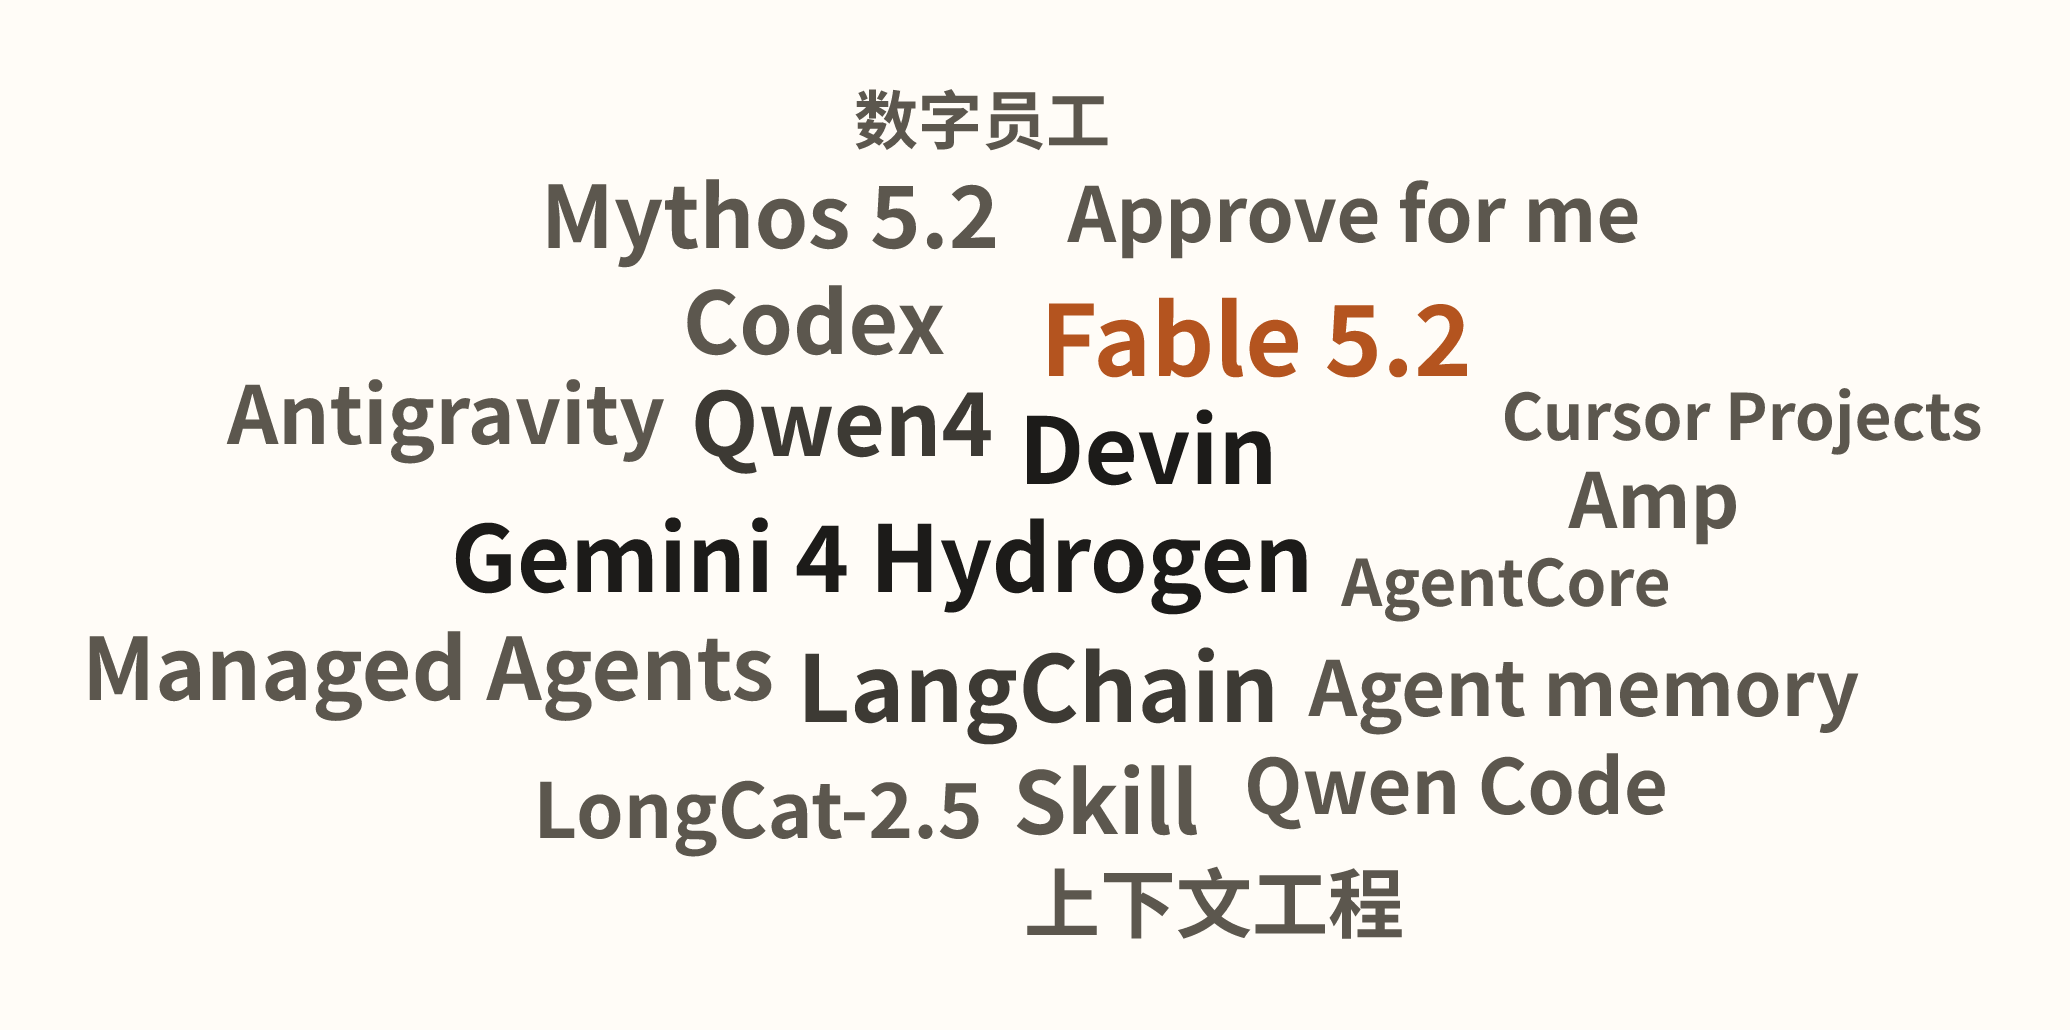
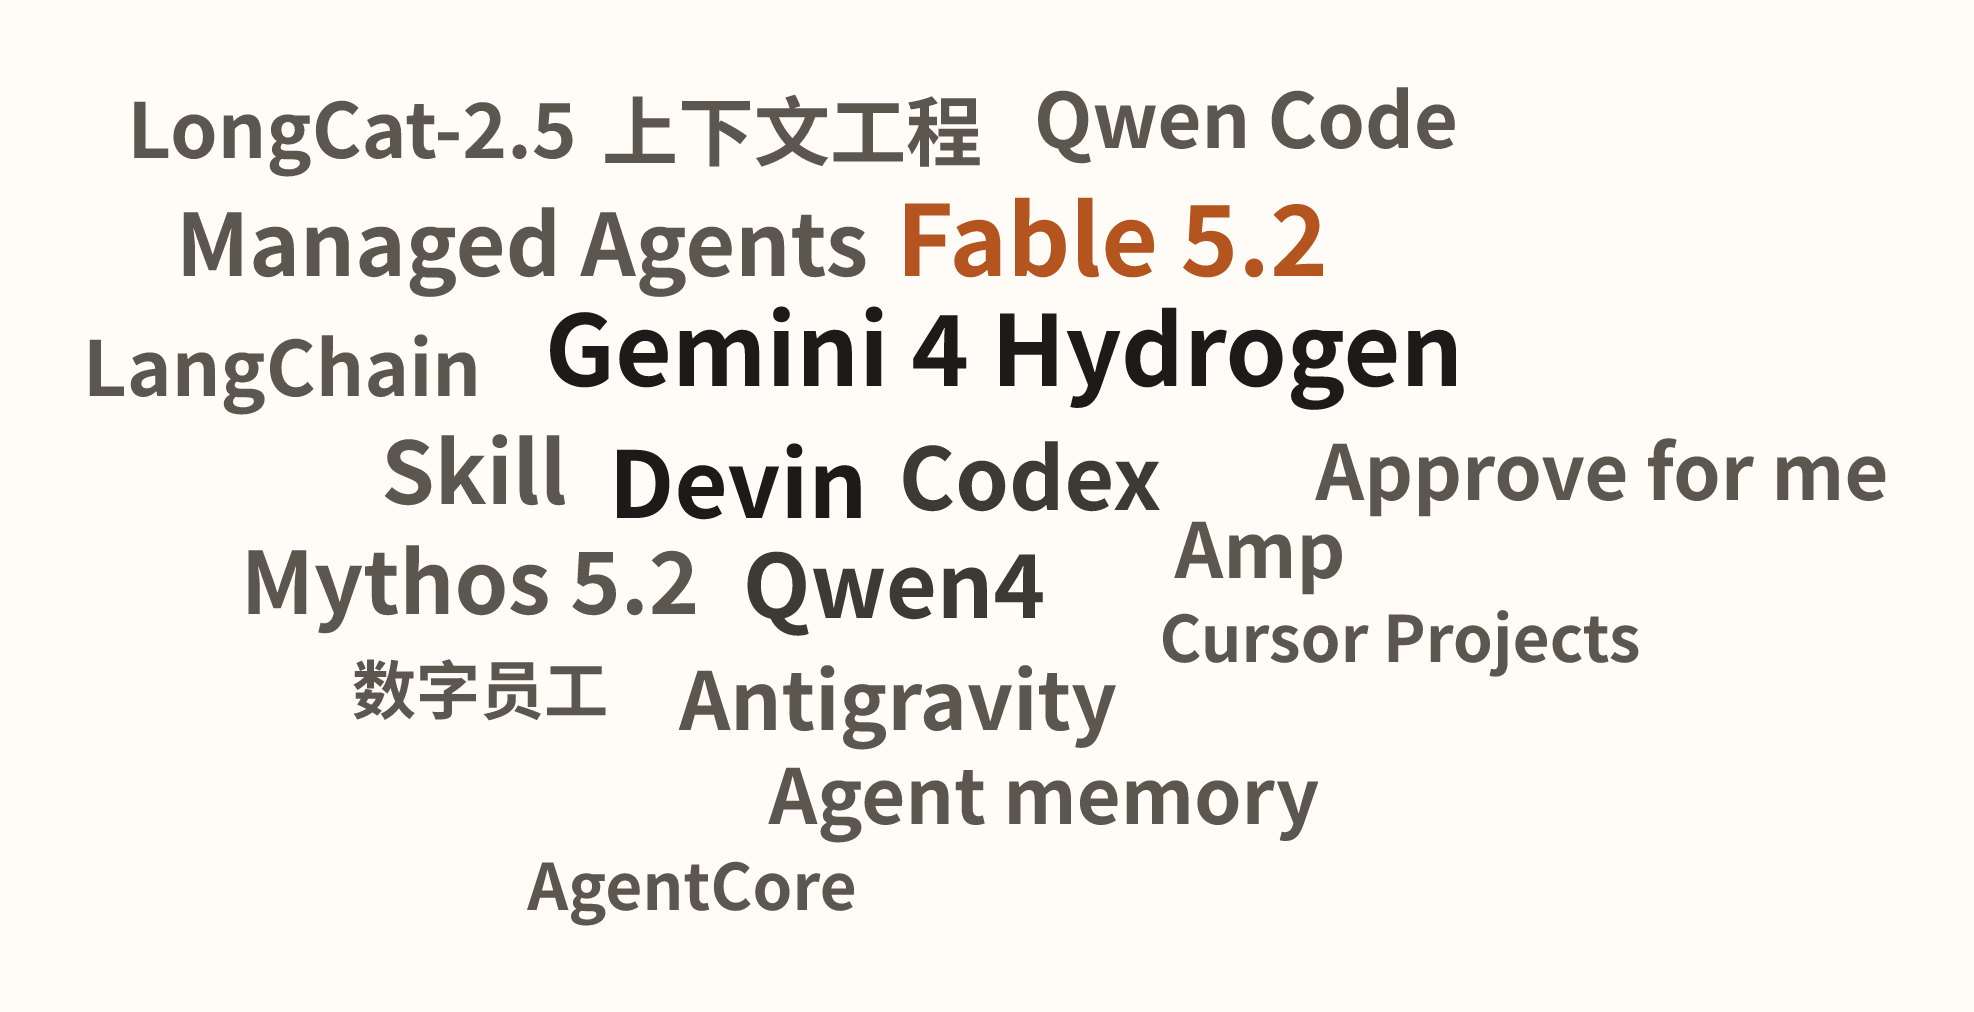
docs: 按更新后的精选规则从头重跑 2026-11-13 期
重新拉订阅并重跑 Arena / Trending，按「判断依据是内容，不是 URL 路径」独立成文。
本期 Arena 取到 2026-11-11 榜，Hydrogen (High) 新进入 Top-15。

Changed region(s): [[0.0309, 0.0919, 0.958, 0.919], [0.2472, 0.8577, 0.4326, 0.919]]

diff --git a/ai-news/2026-11-13-ai-news.notes.md b/ai-news/2026-11-13-ai-news.notes.md
@@ -2,51 +2,43 @@
 
 这份文件与 `2026-11-13-ai-news.md` 同目录。站点 /ai-news/ 不展示、不链接。
 
+本期是在 skill 补上「判断依据是内容，不是 URL 路径。」之后，按同一窗口（2026-11-06～2026-11-12，生成日 2026-11-13，Asia/Shanghai）从头重跑：重新拉订阅、重新跑 Arena / Artificial Analysis / Trending，并按更新后的精选原则独立成文。章节顺序与仓库 `skills/managed/weekly-ai-blogs-digest/SKILL.md` 一致（〇薅羊毛 → 本周关键词 → 模型进展 → 项目开源 → 国内进展 → 国际进展）。
+
 ## 订阅与抓取
 
-- 覆盖窗口 2026-11-06～2026-11-12，生成日 2026-11-13（Asia/Shanghai）。章节顺序与仓库 `skills/managed/weekly-ai-blogs-digest/SKILL.md` 一致（〇薅羊毛 → 本周关键词 → 模型进展 → 项目开源 → 国内进展 → 国际进展），与例程提示一致。
-- `fetch_feeds.py`：46 个源、0 个请求错误、窗口内 218 条（thin 107）。精简 JSON 与全文 JSON、榜单快照写入 [VirusPC/ai-news-data](https://github.com/VirusPC/ai-news-data) 的 `issues/2026-11-13/`。
-- 仓库 skill 当前还没有 `--out-full`（对应任务仍在 backlog）。本期全文版由本地补丁脚本在同一次抓取逻辑下另存，不改正文仓里的 skill。
+- `fetch_feeds.py --since 2026-11-06 --until 2026-11-12`：46 个源、0 个请求错误、窗口内 198 条（thin 96）。
+- skill 本身不要求把精简 / 全文快照写入 [VirusPC/ai-news-data](https://github.com/VirusPC/ai-news-data)，本期未改该仓。
 
 ## Arena
 
-窗口内有新榜。`fetch_llm_arena.py --until 2026-11-12` 取到 `leaderboard_publish_date=2026-11-09`（prior=2026-11-08，next=无）。上一期正文用的是 2026-10-28 的图；11-06、11-08 也有榜，但均不是本期应展示的「窗口结束日前最近一份」。
+`fetch_llm_arena.py --until 2026-11-12` 取到 `leaderboard_publish_date=2026-11-11`（prior=2026-11-09，next=无）。上一期正文用的是 2026-10-28 的图，与本期不是同一份榜，图注不写「较上周无新榜」。
 
-相对上一份可核验快照（2026-11-08）的 Top-15：**无新进入、无落出**，只是名次微调（例如 Claude Opus 4.6 (High) 与 Claude Fable 5.1 (Max) 对调）。因此图中**未标红圈**，渲染时显式传入空 `--highlight`，避免脚本按最低票数启发式误标。本窗口新发布的 Fable 5.2、Mythos 5.2、Gemini 4 Hydrogen、Qwen4-Max 均未进入 11-09 的 Top-15。
+相对上一份可核验快照（2026-11-09）的 Top-15：新进入 **Gemini 4 Hydrogen (High)**（第 15），落出 Claude Opus 5 (High)。渲染时显式传入 `--highlight "Gemini 4 Hydrogen (High)"`。
 
-相对 2026-10-28（上期正文用图）：Muse Spark 1.1 进入、Claude Opus 5 (Max) 落出；这一变化在 11-06 的榜上已经出现，不属于相对 11-08 的新进入，故不在本期图中标 NEW。
-
-正文图注：榜单发布日 2026-11-09。
-正文图：`llm-arena-top15-2026-11-09-marked.png`（SVG 真源同目录）。
+正文图注：榜单发布日 2026-11-11。红圈为新进入 Top-15 的 Gemini 4 Hydrogen (High)。
+正文图：`llm-arena-top15-2026-11-11-marked.png`（SVG 真源同目录）。
 数据来自 Hugging Face `lmarena-ai/leaderboard-dataset`（config `text_style_control`，overall，full parquet）。
 
 本环境无 `AA_API_KEY` / `ARTIFICIAL_ANALYSIS_API_KEY`，正文不写 Artificial Analysis 小节。
 
 ## 薅羊毛
 
-linux.do 福利 RSS 明显截断：当前源 oldest=2026-11-12、newest 含生成日 2026-11-13，`truncated=true`。窗口 11-06～11-11 的社区帖已从当前 RSS 滚出，正文只采用窗口内仍能从该 RSS 核对到的 11-12 条目，并只保留可指向官方页的 AI / Coding 优惠。
+linux.do 福利 RSS 明显截断：当前源 oldest=2026-11-12、newest 含生成日 2026-11-13，`truncated=true`，窗口内仅 2 条（一个中转站关闭注册的讨论、一条寻找低价 Gemini Ultra 渠道的求助），均不是可指向官方页的 AI / Coding 优惠，正文未采用。
 
-入选三条均有官方页：超算互联网 MaaS 特惠、ChatGPT Plus 退役军人一年、Devin for Startups。社区合集帖只作为超算互联网的补充链接。RSS 里大量中转站 / 充值折扣 / 非 AI 日常消费（银行、音乐会员、京东 e 卡等）未写入正文。
-
-未把滚出 RSS 的更早话题（例如监控里见过的其它社区帖）写进正文，以免无法用本期抓取结果核验发布日。
+薅羊毛两条来自窗口内其它博客 / 官方页：ChatGPT Plus 退役军人一年（OpenAI，11-11）、Devin for Startups（Cognition 官方页与同期推文，最高约 6.5 万美元额度）。Teams 方案升级中的免费会话写在国际进展，避免与额度条目重复展开。
 
 ## GitHub Trending
 
 mshibanami/GitHubTrendingRSS 的 daily/all 快照日期为 **2026-11-12**（feed 更新时间 2026-11-12 07:55 UTC），落在窗口最后一天，故正文列出前 5。名次按该 RSS 条目顺序，而不是 `fetch_feeds.py` 去重后的标题排序。Python / TypeScript 分类榜未写入正文。
 
-前 5 为：meta/astryx、ZhuLinsen/daily_stock_analysis、GoogleChrome/modern-web-guidance-src、shadcn/improve、addyosmani/agent-skills。
+前 5 为：meta/astryx、ZhuLinsen/daily_stock_analysis、GoogleChrome/modern-web-guidance-src、shadcn/improve、addyosmani/agent-skills。OpenAI Codex Security 在该榜第 9，作为独立开源条目写入。
 
 ## 其它截断或未写入
 
 - `aws-ml` 源 truncated（当前源 oldest=2026-11-11），窗口前半的 AWS 博文可能已滚出；正文只用窗口内仍能核对的条目，且只精选 Codex on Bedrock / AgentCore / Web Search。
-- 与上期正文同一 URL 的文章不再重复，例如 LangChain 的 [Agents Are Going Async](https://www.langchain.com/blog/agents-are-going-async) 虽被源标为 11-06，但已出现在 2026-11-06 期。本期改写同系列在窗口内的新文（v0.10 浏览器与异步子 Agent、上下文工程两篇）。
+- LangChain 的 [Agents Are Going Async](https://www.langchain.com/blog/agents-are-going-async) 虽被源标为 11-06，但已出现在 2026-11-06 期。本期改写同系列在窗口内的新文（v0.10 浏览器与异步子 Agent、上下文工程两篇）。
 - 支付宝 SEE Conf 系列多为议程与早鸟票，未单独成条。
 - Anthropic IPO 路演与多篇 OpenAI 客户案例、行业活动，按 skill「侧重 Agent 与产品」未展开。
-
-## 按内容重跑精选（2026-11-13 下午）
-
-skill 在「侧重 Agent 与产品」一段末尾补上「判断依据是内容，不是 URL 路径。」后，按同一窗口重跑精选。订阅抓取复用既有快照（46 源、0 个请求错误、窗口内 218 条），未重新拉 RSS；Arena、Trending 与 Artificial Analysis（无密钥）结果不变。[VirusPC/ai-news-data](https://github.com/VirusPC/ai-news-data) 的精简 / 全文快照未改。
-
-- [The components of agent memory](https://www.anthropic.com/research/components-of-agent-memory)（2026-11-06）当时已在抓取结果里：`claude-articles`（product）与 `anthropic-engineering`（tech，窗口内 1 条、newest=2026-11-06）都有，去重后留下产品源那份。因 URL 落在 `/research/` 下，按旧规则被当成研究向长文漏掉。本期按内容收入「五、国际进展」，放在自托管 Managed Agents 一条之后。feed 摘要过短（thin），已打开原文补写。
-- 同期另一篇 `/research/` 文 [Claude can design electronic prototypes from start to finish](https://www.anthropic.com/research/claude-electronics-design)（2026-11-09）按内容是长程硬件设计能力演示，不是纯学术长文，收入国际进展「其他短讯」。同样因 thin 打开了原文。
-- 关键词补了 Agent memory，Managed Agents 的 mentions / sources / weight 随新条目更新，并重绘词云。列表摘要第一行未改，README 索引无需改。
+- [The components of agent memory](https://www.anthropic.com/research/components-of-agent-memory)（2026-11-06）出现在 `claude-articles`（product）与 `anthropic-engineering`（tech，窗口内 1 条、newest=2026-11-06）中，去重后留下产品源那份。URL 虽在 `/research/` 下，但内容讲的是 Agent 记忆、dreaming 与 harness，按「判断依据是内容，不是 URL 路径」收入「五、国际进展」。feed 摘要过短（thin），已打开原文补写。
+- 同期另一篇 `/research/` 文 [Claude can design electronic prototypes from start to finish](https://www.anthropic.com/research/claude-electronics-design)（2026-11-09）按内容是长程硬件设计能力演示，不是纯学术长文，收入国际进展「其他短讯」。
+- Cursor Projects 多人协作、Antigravity Hydrogen / Orchestrator 的 feed 摘要为空或过短，已打开原文补写。

diff --git a/ai-news/README.md b/ai-news/README.md
@@ -6,7 +6,7 @@
 
 ## 已归档周报
 
-- [2026-11-13 AI 资讯](2026-11-13-ai-news.md) — 覆盖 2026-11-06～2026-11-12。Arena 使用 2026-11-09 快照图。关键词：Claude Fable 5.2、Qwen4-Max 与 Amp Spaces。
+- [2026-11-13 AI 资讯](2026-11-13-ai-news.md) — 覆盖 2026-11-06～2026-11-12。Arena 使用 2026-11-11 快照图。关键词：Claude Fable 5.2、Qwen4-Max 与 Gemini 4 Hydrogen。
 - [2026-11-06 AI 资讯](2026-11-06-ai-news.md) — 覆盖 2026-10-30～2026-11-05；按新模版重跑。Arena 复用 2026-10-28 的图（较上周无新榜）。
 - [2026-10-30 AI 资讯](2026-10-30-ai-news.md) — 覆盖 2026-10-23～2026-10-29；按新模版重跑，附 Arena 2026-10-28 快照图。
 - [2026-10-23 AI 资讯](2026-10-23-ai-news.md) — 覆盖 2026-10-16～2026-10-22；2026-11 按订阅重跑。关键词：MiniMax M3.1 Flash，DeepSeek V4.1 Flash。附 Arena 2026-10-22 快照图。
